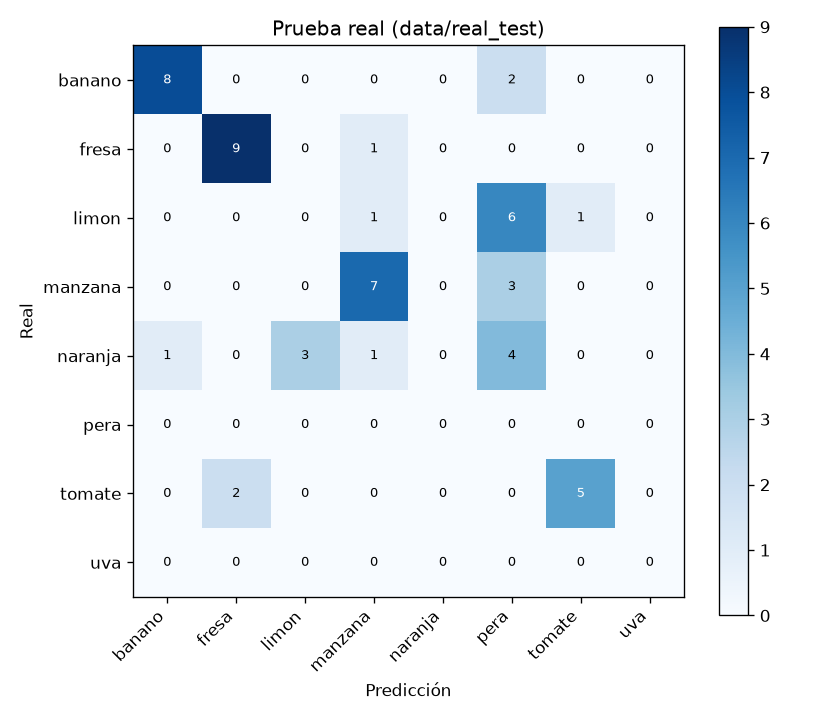
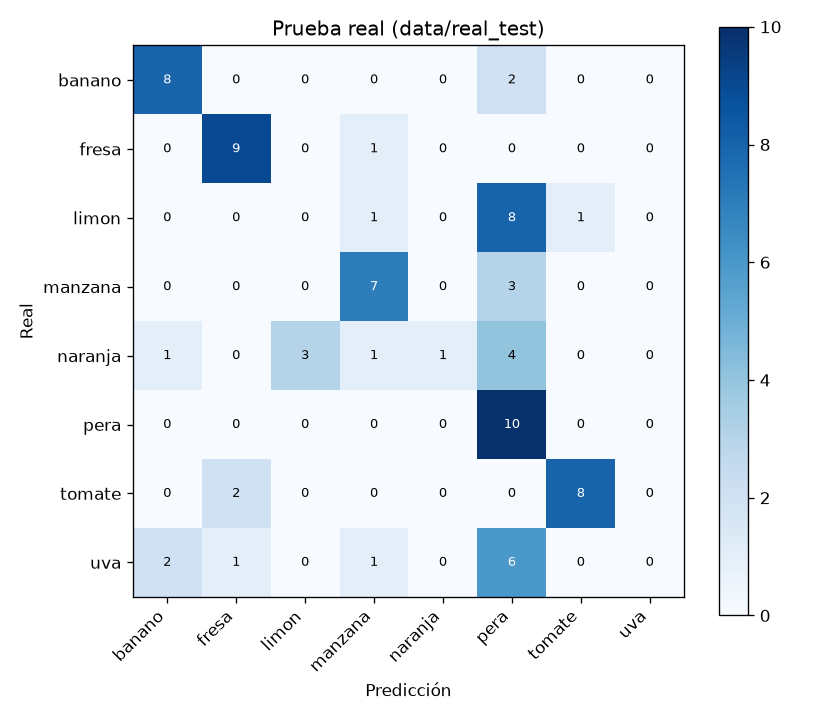
docs(modulo-8): prueba real con las ocho clases (53,8 %) en informe, guía y diapositivas

diff --git a/docs/presentation/index.html b/docs/presentation/index.html
@@ -498,7 +498,7 @@
                 <dl class="ledger reveal" style="--d:.45s">
                     <div><dt>Prueba oficial</dt><dd data-editable>99,38 %</dd></div>
                     <div><dt>Imágenes evaluadas</dt><dd data-editable>17 487</dd></div>
-                    <div><dt>Imágenes de internet</dt><dd class="pending" data-editable>53,7 %</dd></div>
+                    <div><dt>Imágenes de internet</dt><dd class="pending" data-editable>53,8 %</dd></div>
                 </dl>
                 <p class="slide-no">01 / 20</p>
             </section>
@@ -723,23 +723,25 @@
                         </div>
                         <div class="card reveal" style="--d:.26s">
                             <p class="kicker">Imágenes de internet</p>
-                            <h3>53,7 %</h3>
-                            <p>29 de 54 aciertos. Fondos, luz y encuadres reales.</p>
+                            <h3>53,8 %</h3>
+                            <p>43 de 80 aciertos, 10 por clase. Fondos, luz y encuadres reales.</p>
                         </div>
                     </div>
                     <table class="data reveal" style="--d:.32s;margin-top:0">
                         <thead><tr><th>Clase</th><th>Aciertos</th><th>Se confundió con</th></tr></thead>
                         <tbody>
-                            <tr><td>banano</td><td>8 / 10</td><td>pera (2)</td></tr>
+                            <tr><td>pera</td><td>10 / 10</td><td>— (recibe 23 errores)</td></tr>
                             <tr><td>fresa</td><td>9 / 10</td><td>manzana (1)</td></tr>
-                            <tr><td>tomate</td><td>5 / 7</td><td>fresa (2)</td></tr>
+                            <tr><td>banano</td><td>8 / 10</td><td>pera (2)</td></tr>
+                            <tr><td>tomate</td><td>8 / 10</td><td>fresa (2)</td></tr>
                             <tr><td>manzana</td><td>7 / 10</td><td>pera (3)</td></tr>
-                            <tr><td>limón</td><td>0 / 8</td><td>pera (6)</td></tr>
-                            <tr><td>naranja</td><td>0 / 9</td><td>pera (4), limón (3)</td></tr>
+                            <tr><td>naranja</td><td>1 / 10</td><td>pera (4), limón (3)</td></tr>
+                            <tr><td>limón</td><td>0 / 10</td><td>pera (8)</td></tr>
+                            <tr><td>uva</td><td>0 / 10</td><td>pera (6), banano (2)</td></tr>
                         </tbody>
                     </table>
                 </div>
-                <p class="note reveal" data-editable style="--d:.42s">Imágenes descargadas de internet, no fotos propias; sin pera ni uva. Casi todos los errores caen en «pera» y con confianza alta: los limones verdes salen como pera con 0,99–1,00.</p>
+                <p class="note reveal" data-editable style="--d:.42s">Imágenes descargadas de internet, no fotos propias. «Pera» funciona como sumidero: su precisión es 0,30. Los limones verdes salen como pera con 0,99–1,00.</p>
                 <p class="footline">Clasificador de frutas · 19.11.2026</p>
                 <p class="slide-no">13 / 20</p>
             </section>
@@ -865,7 +867,7 @@
                     <li><span>01</span> 99,38 % demuestra que el modelo funciona en el entorno controlado</li>
                     <li><span>02</span> la partición por índice evitó una validación engañosa</li>
                     <li><span>03</span> el cambio de criterio de selección pudo influir en el resultado</li>
-                    <li><span>04</span> con imágenes de internet baja a 53,7 %: todavía no generaliza</li>
+                    <li><span>04</span> con imágenes de internet baja a 53,8 %: todavía no generaliza</li>
                 </ul>
                 <span class="stamp reveal" style="--d:.36s">Fin · Preguntas</span>
                 <p class="footline">Clasificador de frutas · 19.11.2026</p>

diff --git a/GUIA_PRESENTACION.md b/GUIA_PRESENTACION.md
@@ -12,7 +12,7 @@ Guía personal para la exposición del clasificador de frutas. Tu parte son las 
    - `LICENSE`: conserva el de `ML-project`.
 3. **Las diapositivas están en `docs/presentation/index.html`.** Se movieron desde `docs/presentacion/`, y los enlaces del README y los docs ya apuntan a la nueva ruta.
 4. **La diapositiva 18 quedó desactualizada en un punto.** El punto 04 dice «votación mayoritaria y confianza media». Desde la auditoría, el resumen del video ordena las clases por **confianza media sobre todos los fotogramas** y además informa en cuántos fotogramas ganó la clase final. Dilo así al exponer o corrige el texto.
-5. **La prueba real ya tiene resultado: 53,7 % (29 de 54), en estado `incompleta`.** Las imágenes son de internet, no fotos propias, y faltan pera y uva. Está en las diapositivas 1, 13 y 20; prepara la respuesta de la sección 4.
+5. **La prueba real ya tiene resultado: 53,8 % (43 de 80, 10 por clase), en estado `ok`.** Las imágenes son de internet, no fotos propias. Está en las diapositivas 1, 13 y 20; prepara la respuesta de la sección 4.
 
 ### Comandos para la demo
 
@@ -34,7 +34,7 @@ La cámara solo funciona en `localhost` o con HTTPS. Si usas la IP de la red, el
 
 Una aplicación Flask clasifica una imagen en **8 frutas**: banano, fresa, limón, manzana, naranja, pera, tomate y uva. El modelo es **MobileNetV3-Small** ajustado por transfer learning sobre **Fruits-360** (100 × 100 px). La imagen llega por cámara, por archivo o como fotograma de un video. Cada predicción se guarda en **PostgreSQL** y se consulta en una interfaz web con historial, estadísticas, información del modelo y logs. Todo corre en CPU y se levanta con `docker compose`.
 
-**Prueba oficial: 99,38 %** sobre 17 487 imágenes. **Imágenes de internet: 53,7 %** (29 de 54, sin pera ni uva).
+**Prueba oficial: 99,38 %** sobre 17 487 imágenes. **Imágenes de internet: 53,8 %** (43 de 80, 10 por clase).
 
 ---
 
@@ -221,7 +221,7 @@ Explica cada punto en una frase:
 1. **99,38 % demuestra que funciona en el entorno controlado**: fondo blanco y rotación controlada. No es una promesa para cualquier foto.
 2. **La partición por índice evitó una validación engañosa:** separar los fotogramas al azar habría puesto casi la misma imagen en entrenamiento y validación.
 3. **El cambio de criterio de selección pudo influir:** se cambió después de ver el resultado de `Test/`. Para medir la mejora sin sesgo haría falta otro conjunto de prueba independiente.
-4. **Con imágenes de internet baja a 53,7 %:** el modelo todavía no generaliza fuera de Fruits-360. Por eso hablamos de cambio de dominio.
+4. **Con imágenes de internet baja a 53,8 %:** el modelo todavía no generaliza fuera de Fruits-360. Por eso hablamos de cambio de dominio.
 
 **Limitaciones que conviene decir tú antes de que te las pregunten:**
 - **Conjunto cerrado:** el modelo siempre elige una de las 8 clases; no puede decir «no es una fruta». Una mejora sería un umbral de confianza que responda «no estoy seguro».
@@ -293,20 +293,20 @@ Explica cada punto en una frase:
   - más bajos: uva con precisión 0,981 (le llegan manzanas y tomates mal clasificados) y pera con recall 0,987 (51 peras clasificadas como manzanas).
 - **Confusiones:** 51 peras como manzanas, 27 manzanas como uvas, 9 manzanas como tomates y 5 tomates como uvas. Son frutas redondas o de colores parecidos.
 - **Variedades más débiles:** Pear Red 1 (0,811) y Apple 6 (0,879). El promedio alto esconde estos casos.
-- **Prueba real (cambio de dominio):** **53,7 %**, 29 de 54 imágenes de internet, en estado `incompleta`.
-  - Faltan pera y uva, y 6 archivos `.avif` no se evalúan.
-  - Por clase: banano 8/10, fresa 9/10, tomate 5/7, manzana 7/10, limón 0/8 y naranja 0/9.
-  - «Pera» funciona como sumidero: recibe 15 de los 25 errores aunque no hay ninguna pera.
-  - Los limones de las imágenes son verdes (limas), mientras que el limón de Fruits-360 es amarillo; salen como pera con confianza de 0,99 a 1,00.
+- **Prueba real (cambio de dominio):** **53,8 %**, 43 de 80 imágenes de internet (10 por clase), en estado `ok`.
+  - Por clase: pera 10/10, fresa 9/10, banano 8/10, tomate 8/10, manzana 7/10, naranja 1/10, limón 0/10 y uva 0/10.
+  - «Pera» funciona como sumidero: recibe 23 de los 37 errores. Por eso su recall es 1,0 pero su precisión solo 0,30: **el 10/10 de pera no significa que reconozca bien las peras**.
+  - Los limones de las imágenes son verdes (limas), mientras que el limón de Fruits-360 es amarillo; salen como pera con confianza de 0,91 a 1,00.
+  - Las uvas de internet son racimos con hojas y fondos variados; ninguna se reconoce y 6 de 10 salen como pera.
 
 ---
 
 ## 4. Preguntas difíciles (de cualquier parte)
 
 - **«99 % parece demasiado bueno, ¿hay fuga?»** La partición por índice con hueco lo evita, y una prueba lo verifica sobre el manifiesto. `Test/` son videos distintos de los de entrenamiento. El número es alto porque el dominio es fácil: fondo blanco, fruta centrada y sin ruido. Por eso insistimos en la prueba real.
-- **«¿Y fuera de Fruits-360?»** Con 54 imágenes de internet baja a **53,7 %**. Dilo sin rodeos: **no son fotos propias**, sino imágenes descargadas, y faltan pera y uva, así que es una muestra pequeña e incompleta.
+- **«¿Y fuera de Fruits-360?»** Con 80 imágenes de internet (10 por clase) baja a **53,8 %**. Dilo sin rodeos: **no son fotos propias**, sino imágenes descargadas, y es una muestra pequeña.
   - La lección es el cambio de dominio. El modelo aprendió fondo blanco y una sola fruta centrada; con fondos oscuros, varias frutas o limas verdes, falla.
-  - **Tampoco avisa cuando falla**: la confianza media es 0,91 en los aciertos y 0,77 en los errores, y algunos errores llegan a 0,99. Un umbral de confianza no basta.
+  - **Tampoco avisa cuando falla**: la confianza media es 0,90 en los aciertos y 0,80 en los errores, y 16 de los 37 errores superan 0,90. Un umbral de confianza no basta.
   - Para mejorar: entrenar con fondos variados o con fotos reales.
 - **«¿Qué pasa si le muestro un kiwi?»** Devuelve una de las 8 clases, normalmente con menor confianza: es un clasificador de conjunto cerrado. Un umbral de confianza permitiría responder «no estoy seguro».
 - **«¿Cómo lo probaron?»** Con 134 pruebas de `pytest`, que cubren el ML (preprocesamiento, partición, predictor, evaluación), la persistencia y las migraciones, los logs, los servicios, cada endpoint con sus errores y la ruta web. También probamos el contenedor con PostgreSQL 17.6: una predicción real guardada, errores en español, 404 en HTML fuera de la API y usuario no root.
@@ -340,5 +340,5 @@ Explica cada punto en una frase:
 | Logs | `logs/app.log`, 1 MB × 5 respaldos, UTC |
 | Imagen Docker | 5,7 GB → 1,72 GB; Gunicorn con 1 worker y 4 hilos |
 | PostgreSQL | 17.6-alpine con healthcheck |
-| Imágenes de internet | 53,7 % (29 de 54), sin pera ni uva |
+| Imágenes de internet | 53,8 % (43 de 80), 10 por clase |
 | Pruebas | 134 con `uv run pytest` |

diff --git a/docs/progress.md b/docs/progress.md
@@ -43,11 +43,11 @@ El ajuste posterior de M7 sirve Chart.js 4.6.1 desde `app/static/vendor/` (sin C
 
 En el cierre inicial de M8 se revisaron los siete documentos y el README, se añadió `LICENSE` (MIT, «Juan Cardona, Santiago Góez, Sebastián Mejía · 2026») y se generaron 20 diapositivas con el estilo «Herbario técnico», escenario fijo de 1920 × 1080 y navegación por teclado, rueda y gestos. La puerta de cierre se verificó con `uv run pytest` (134 pruebas aprobadas) y se revisaron los cambios antes del commit en `modulo-8-entrega`. [Diapositivas](presentation/index.html)
 
-En `modulo-8-prueba-real` se ejecutó `uv run python ml_training/evaluate.py`. La prueba real quedó `incompleta`, con **53,7 % de exactitud (29 de 54 imágenes)**. La prueba oficial se mantuvo en **99,38 % sobre 17 487 imágenes**. Se generó la matriz de confusión de la prueba real y se incorporó el resultado a las diapositivas. [Informe del modelo](ml-report.md#prueba-real) · [Diapositivas](presentation/index.html)
+En la actualización de M8 se volvió a ejecutar `uv run python ml_training/evaluate.py`. La prueba real obtuvo el estado `ok` y **53,8 % de exactitud (43 de 80 imágenes, 10 por clase)**. La prueba oficial se mantuvo en **0,9938 (99,38 %) sobre 17 487 imágenes**. Se regeneró la matriz de confusión de la prueba real y se incorporó el resultado a las diapositivas. `evaluate.py` sustituyó el encabezado «fotos propias» por «Prueba real (`data/real_test/`)». [Informe del modelo](ml-report.md#prueba-real) · [Diapositivas](presentation/index.html)
 
 ## Auditoría final
 
-La rama `fix/auditoria-final` parte de `ML-project` en `221eddd`. El historial usa un selector con las etiquetas del modelo y el resumen de video calcula el top-3 por confianza media e indica en cuántos fotogramas ganó la clase final. El modo continuo se detiene al primer error, la captura da preferencia a la cámara trasera en móviles y la información del modelo distingue la prueba real pendiente, incompleta y completa.
+La rama `fix/auditoria-final` parte de `ML-project` en `221eddd`. El historial usa un selector con las etiquetas del modelo y el resumen de video calcula el top-3 por confianza media e indica en cuántos fotogramas ganó la clase final. El modo continuo se detiene al primer error, la captura da preferencia a la cámara trasera en móviles y la información del modelo indica si la prueba real tiene resultados y si cubre todas las clases.
 
 `uv run pytest` aprobó **134 pruebas**. Se ampliaron las aserciones web existentes. La aplicación arrancó y el cliente de pruebas verificó que `/` sirve la interfaz y que `GET /api/v1/predictions?label=manzana` filtra por esa etiqueta. [Pruebas web](../tests/test_web/test_routes.py)
 
@@ -55,14 +55,10 @@ La rama `fix/auditoria-final` parte de `ML-project` en `221eddd`. El historial u
 
 - Una persona debe fusionar `ML-project` en `main`, la rama predeterminada del remoto, que aún no contiene esa integración. `.gitignore` se añadió en ambas ramas (`add/add`). `LICENSE` se borró en `main` y sigue presente en `ML-project`. Se debe conservar el `LICENSE` de `ML-project`.
 
-## Pendiente opcional
-
-- Añadir imágenes de pera y uva en formatos admitidos y volver a ejecutar la evaluación para pasar a estado `ok`. Convertir también los seis AVIF a un formato admitido para incluirlos en la evaluación.
-
 ## Diferencias con el plan
 
 - **Selección del artefacto.** La mayor exactitud de validación eligió la época 3, al final de la etapa de cabeza, cuyo artefacto dio **0,9915** en `Test/`. Después de ver ese resultado, se adoptó la menor pérdida de validación con la exactitud como desempate. Al repetir el entrenamiento con la misma semilla y las mismas métricas por época, el nuevo criterio eligió la época 5, de ajuste fino, con pérdida de validación **0,0096**, exactitud de validación **0,9963** y exactitud oficial **0,9938**. [Informe del modelo](ml-report.md#cambio-del-criterio-de-selección)
-- **Origen y cobertura de la prueba real.** El plan pedía fotos propias tomadas con cámara. El equipo usó imágenes descargadas de internet, de stock y de otros sitios web. Algunas parecen generadas o retocadas. La muestra carece de imágenes de pera y uva. [Informe del modelo](ml-report.md#prueba-real)
+- **Origen de la prueba real.** El plan pedía fotos propias tomadas con cámara. El equipo usó imágenes descargadas de internet para las ocho clases. [Informe del modelo](ml-report.md#prueba-real)
 - **Versiones del modelo (M2).** Se conserva `ModelVersion`, incorporado fuera del plan, para identificar qué artefacto generó cada predicción. En M4 se registrará la versión del artefacto cargado y se enlazará cada predicción con `model_version_id`. El repositorio conserva `activate()` y `get_active()`. La aplicación cargará un único modelo.
 - **Esquema y filtros (M2).** El M2 original creaba las tablas con `db.create_all()`. La corrección introduce migraciones con Flask-Migrate y Alembic, y completa los campos `file_size_bytes` e `inference_ms` y el filtro por fechas previstos en el plan.
 - **Registros de aplicación (M3).** Los logs se escriben solo en consola y en un archivo rotativo, según la decisión aprobada. La migración `7e4b0e45cdaf` elimina la tabla `app_logs`. Su `downgrade` recrea la tabla vacía con los tipos de la revisión inicial. Así se mantiene la escritura de logs durante fallos de la base de datos y se evita la recursión con los logs de SQLAlchemy.

diff --git a/docs/ml-report.md b/docs/ml-report.md
@@ -60,25 +60,24 @@ La confusión más frecuente fue pera clasificada como manzana (51 imágenes). T
 
 ## Prueba real
 
-La prueba real obtuvo **0,5370 (53,7 %), con 29 aciertos en 54 imágenes**. La prueba oficial se mantuvo en **0,9938 (99,38 %)** sobre **17 487 imágenes** de Fruits-360. [Métricas de ambas pruebas](../ml_training/reports/metrics.json)
+La prueba real obtuvo **0,5375 (53,8 %), con 43 aciertos en 80 imágenes**. La evaluación reportó el estado `ok` y cubrió las ocho clases con diez imágenes por clase. La prueba oficial obtuvo **0,9938 (99,38 %)** sobre **17 487 imágenes** de Fruits-360. [Métricas de ambas pruebas](../ml_training/reports/metrics.json)
 
-El equipo descargó las imágenes de `data/real_test/` de internet. Hay imágenes de stock y de otros sitios web, y algunas parecen generadas o retocadas. La evaluación con fotos propias tomadas con cámara, prevista en el plan, queda por medir. [Resumen de evaluación](../ml_training/reports/summary.md)
-
-La prueba quedó **incompleta**. Hay 60 archivos, 10 por cada una de las seis clases presentes. Pera y uva carecen de imágenes. El evaluador solo admite JPG, JPEG, PNG, WebP y BMP, por lo que quedaron fuera seis archivos AVIF (dos de limón, uno de naranja y tres de tomate).
+El equipo descargó de internet las imágenes de `data/real_test/`. La evaluación con fotos propias que preveía el plan queda sin medir. Se reemplazaron las imágenes con marca de agua de un banco de imágenes y todos los archivos de la muestra están en formatos admitidos. [Resumen de evaluación](../ml_training/reports/summary.md)
 
 | Clase | Aciertos / evaluadas | Precisión | Recall | F1 | Predicciones erróneas |
 | --- | ---: | ---: | ---: | ---: | --- |
-| banano | 8/10 | 0,889 | 0,800 | 0,842 | 2 como pera |
-| fresa | 9/10 | 0,818 | 0,900 | 0,857 | 1 como manzana |
-| limon | 0/8 | 0,000 | 0,000 | 0,000 | 6 como pera, 1 como manzana y 1 como tomate |
-| manzana | 7/10 | 0,700 | 0,700 | 0,700 | 3 como pera |
-| naranja | 0/9 | 0,000 | 0,000 | 0,000 | 4 como pera, 3 como limón, 1 como banano y 1 como manzana |
-| pera | Sin imágenes | — | — | — | — |
-| tomate | 5/7 | 0,833 | 0,714 | 0,769 | 2 como fresa |
-| uva | Sin imágenes | — | — | — | — |
+| banano | 8/10 | 0,727 | 0,800 | 0,762 | 2 como pera |
+| fresa | 9/10 | 0,750 | 0,900 | 0,818 | 1 como manzana |
+| limon | 0/10 | 0,000 | 0,000 | 0,000 | 8 como pera, 1 como manzana y 1 como tomate |
+| manzana | 7/10 | 0,636 | 0,700 | 0,667 | 3 como pera |
+| naranja | 1/10 | 1,000 | 0,100 | 0,182 | 4 como pera, 3 como limón, 1 como banano y 1 como manzana |
+| pera | 10/10 | 0,303 | 1,000 | 0,465 | Ninguna |
+| tomate | 8/10 | 0,889 | 0,800 | 0,842 | 2 como fresa |
+| uva | 0/10 | 0,000 | 0,000 | 0,000 | 6 como pera, 2 como banano, 1 como fresa y 1 como manzana |
+| **Promedio macro** | | **0,538** | **0,538** | **0,467** | |
 
-El resumen automático promedia las ocho clases e incluye pera y uva con ceros. Su precisión, recall y F1 macro son **0,405**, **0,389** y **0,396**. Sobre las seis clases con imágenes evaluadas, los promedios son **0,540**, **0,519** y **0,528**, respectivamente.
+«Pera» actuó como clase sumidero y concentró 23 de los 37 errores. El modelo acertó las 10 peras (recall de 1,000), pero solo 10 de las 33 predicciones de «pera» fueron correctas (precisión de 0,303). El 10/10 describe la cobertura de las peras en esta muestra y, por sí solo, sobrestima el desempeño de la clase. [Matriz de confusión de la prueba real](../ml_training/reports/confusion_matrix_real.png)
 
-La etiqueta «pera» concentró 15 de los 25 errores. Casi todos los limones de la muestra eran verdes (limas), mientras que Fruits-360 contiene limones amarillos de las variedades `Lemon 1` y `Lemon Meyer 1`. Las seis predicciones de limón como pera tuvieron confianzas de 0,91 a 1,00, incluido el único limón amarillo, con 0,91. Las naranjas de la muestra se confundieron principalmente con pera y limón. [Matriz de confusión de la prueba real](../ml_training/reports/confusion_matrix_real.png)
+Los limones verdes (limas) clasificados como pera tuvieron confianzas de 0,91 a 1,00. Los limones de Fruits-360 son amarillos. El modelo falló las diez imágenes de uvas, que muestran racimos con hojas y fondos variados, y predijo «pera» en seis casos. El cambio de dominio ayuda a explicar la caída de exactitud. Las imágenes web varían en iluminación, fondo y encuadre. Fruits-360 usa fondo blanco y rotación controlada.
 
-La confianza media fue 0,91 en los aciertos y 0,77 en los errores. Varios errores alcanzaron una confianza de al menos 0,99, por lo que un umbral simple de confianza resulta insuficiente para detectarlos. El cambio de dominio ayuda a explicar la caída de exactitud. Las imágenes web varían en iluminación y fondo, a veces oscuro, y algunas muestran varias frutas. Fruits-360 usa fondo blanco y rotación controlada.
+La confianza media fue 0,90 en los aciertos y 0,80 en los errores. Un umbral de confianza de 0,90 dejaría pasar 16 de los 37 errores.

diff --git a/docs/dataset.md b/docs/dataset.md
@@ -36,4 +36,4 @@ El manifiesto contiene una fila por imagen seleccionada con las columnas `path` 
 
 Las transformaciones compartidas corrigen la orientación EXIF, convierten a RGB y recortan un cuadrado centrado para preservar las proporciones en fotos rectangulares. Validación, prueba e inferencia redimensionan a 224 × 224 con interpolación bilineal. Entrenamiento aplica recorte aleatorio redimensionado a 224 × 224, volteo horizontal, rotación de hasta 20° y variación leve de color. Ambas transformaciones usan la media RGB `(0.485, 0.456, 0.406)` y la desviación estándar `(0.229, 0.224, 0.225)` de ImageNet para mantener la escala de entrada de los pesos preentrenados. [Preprocesamiento compartido](../app/ml/preprocessing.py)
 
-La prueba oficial mide el rendimiento en el entorno controlado de Fruits-360. La prueba real obtuvo 53,7 % de exactitud sobre 54 imágenes descargadas de internet con fondos, iluminación y encuadres variados. La muestra cubre seis de las ocho clases y queda pendiente medir el rendimiento con fotos propias tomadas con cámara. [Informe del modelo](ml-report.md#prueba-real)
+La prueba oficial mide el rendimiento en el entorno controlado de Fruits-360. La prueba real obtuvo **53,8 % de exactitud (43 de 80 imágenes)** con diez imágenes por cada una de las ocho clases. El equipo las descargó de internet y la muestra incluye fondos, iluminación y encuadres variados. El resultado solo corresponde a esa muestra web. [Informe del modelo](ml-report.md#prueba-real)

diff --git a/docs/architecture.md b/docs/architecture.md
@@ -72,7 +72,7 @@ La vista previa usa `getUserMedia` con `facingMode: { ideal: 'environment' }` pa
 
 El navegador selecciona hasta ocho fotogramas del video y los envía como imágenes con `source=video`. El resumen ordena las clases por su confianza media sobre todos los fotogramas. Si una clase queda fuera del top-3 de un fotograma, su confianza cuenta como cero en ese fotograma. Las tres medias más altas forman el top-3 del resumen. La nota indica en cuántos fotogramas ganó la clase con la media más alta.
 
-El selector «Etiqueta» del historial se llena con las clases de `GET /api/v1/model` para enviar los valores exactos que compara la API. En «Información del modelo», la prueba real muestra «Pendiente» si no hay fotos, la exactitud seguida de «(faltan clases)» si el estado es `incompleta` y la exactitud si es `ok`.
+El selector «Etiqueta» del historial se llena con las clases de `GET /api/v1/model` para enviar los valores exactos que compara la API. En «Información del modelo», la prueba real muestra «Pendiente» si no hay fotos y la exactitud cuando hay resultados. Si faltan clases, añade «(faltan clases)» después de la exactitud.
 
 Las estadísticas se dibujan con Chart.js a partir de `GET /api/v1/stats`, con tablas de datos equivalentes y una paleta que no depende solo del color. El estado de salud, la información del modelo y los registros se cargan al abrir la página y se pueden actualizar de forma independiente.
 

diff --git a/ml_training/reports/summary.md b/ml_training/reports/summary.md
@@ -30,18 +30,16 @@ Variedades con menor accuracy:
 
 ## Prueba real (`data/real_test/`)
 
-Estado: incompleta. Accuracy: **0.5370** sobre 54 fotos.
+Estado: ok. Accuracy: **0.5375** sobre 80 fotos.
 
 | Clase | Precisión | Recall | F1 | Soporte |
 |---|---|---|---|---|
-| banano | 0.889 | 0.800 | 0.842 | 10 |
-| fresa | 0.818 | 0.900 | 0.857 | 10 |
-| limon | 0.000 | 0.000 | 0.000 | 8 |
-| manzana | 0.700 | 0.700 | 0.700 | 10 |
-| naranja | 0.000 | 0.000 | 0.000 | 9 |
-| pera | 0.000 | 0.000 | 0.000 | 0 |
-| tomate | 0.833 | 0.714 | 0.769 | 7 |
-| uva | 0.000 | 0.000 | 0.000 | 0 |
-| **macro** | 0.405 | 0.389 | 0.396 | 54 |
-
-Clases sin fotos: pera, uva.
+| banano | 0.727 | 0.800 | 0.762 | 10 |
+| fresa | 0.750 | 0.900 | 0.818 | 10 |
+| limon | 0.000 | 0.000 | 0.000 | 10 |
+| manzana | 0.636 | 0.700 | 0.667 | 10 |
+| naranja | 1.000 | 0.100 | 0.182 | 10 |
+| pera | 0.303 | 1.000 | 0.465 | 10 |
+| tomate | 0.889 | 0.800 | 0.842 | 10 |
+| uva | 0.000 | 0.000 | 0.000 | 10 |
+| **macro** | 0.538 | 0.538 | 0.467 | 80 |

diff --git a/README.md b/README.md
@@ -26,7 +26,7 @@ Aplicación académica que clasifica ocho frutas en imágenes con MobileNetV3-Sm
 
 ## Prueba real
 
-La prueba real obtuvo **53,7 % de exactitud (29 de 54 imágenes)** y figura como incompleta. El equipo descargó las imágenes de internet y faltan ejemplos de pera y uva. [Resultados y limitaciones](docs/ml-report.md#prueba-real)
+La prueba real obtuvo **53,8 % de exactitud (43 de 80 imágenes)**, con diez imágenes descargadas de internet por cada una de las ocho clases. [Resultados y limitaciones](docs/ml-report.md#prueba-real)
 
 Para evaluar fotos propias tomadas con cámara, como preveía el plan, sigue estos pasos.
 
